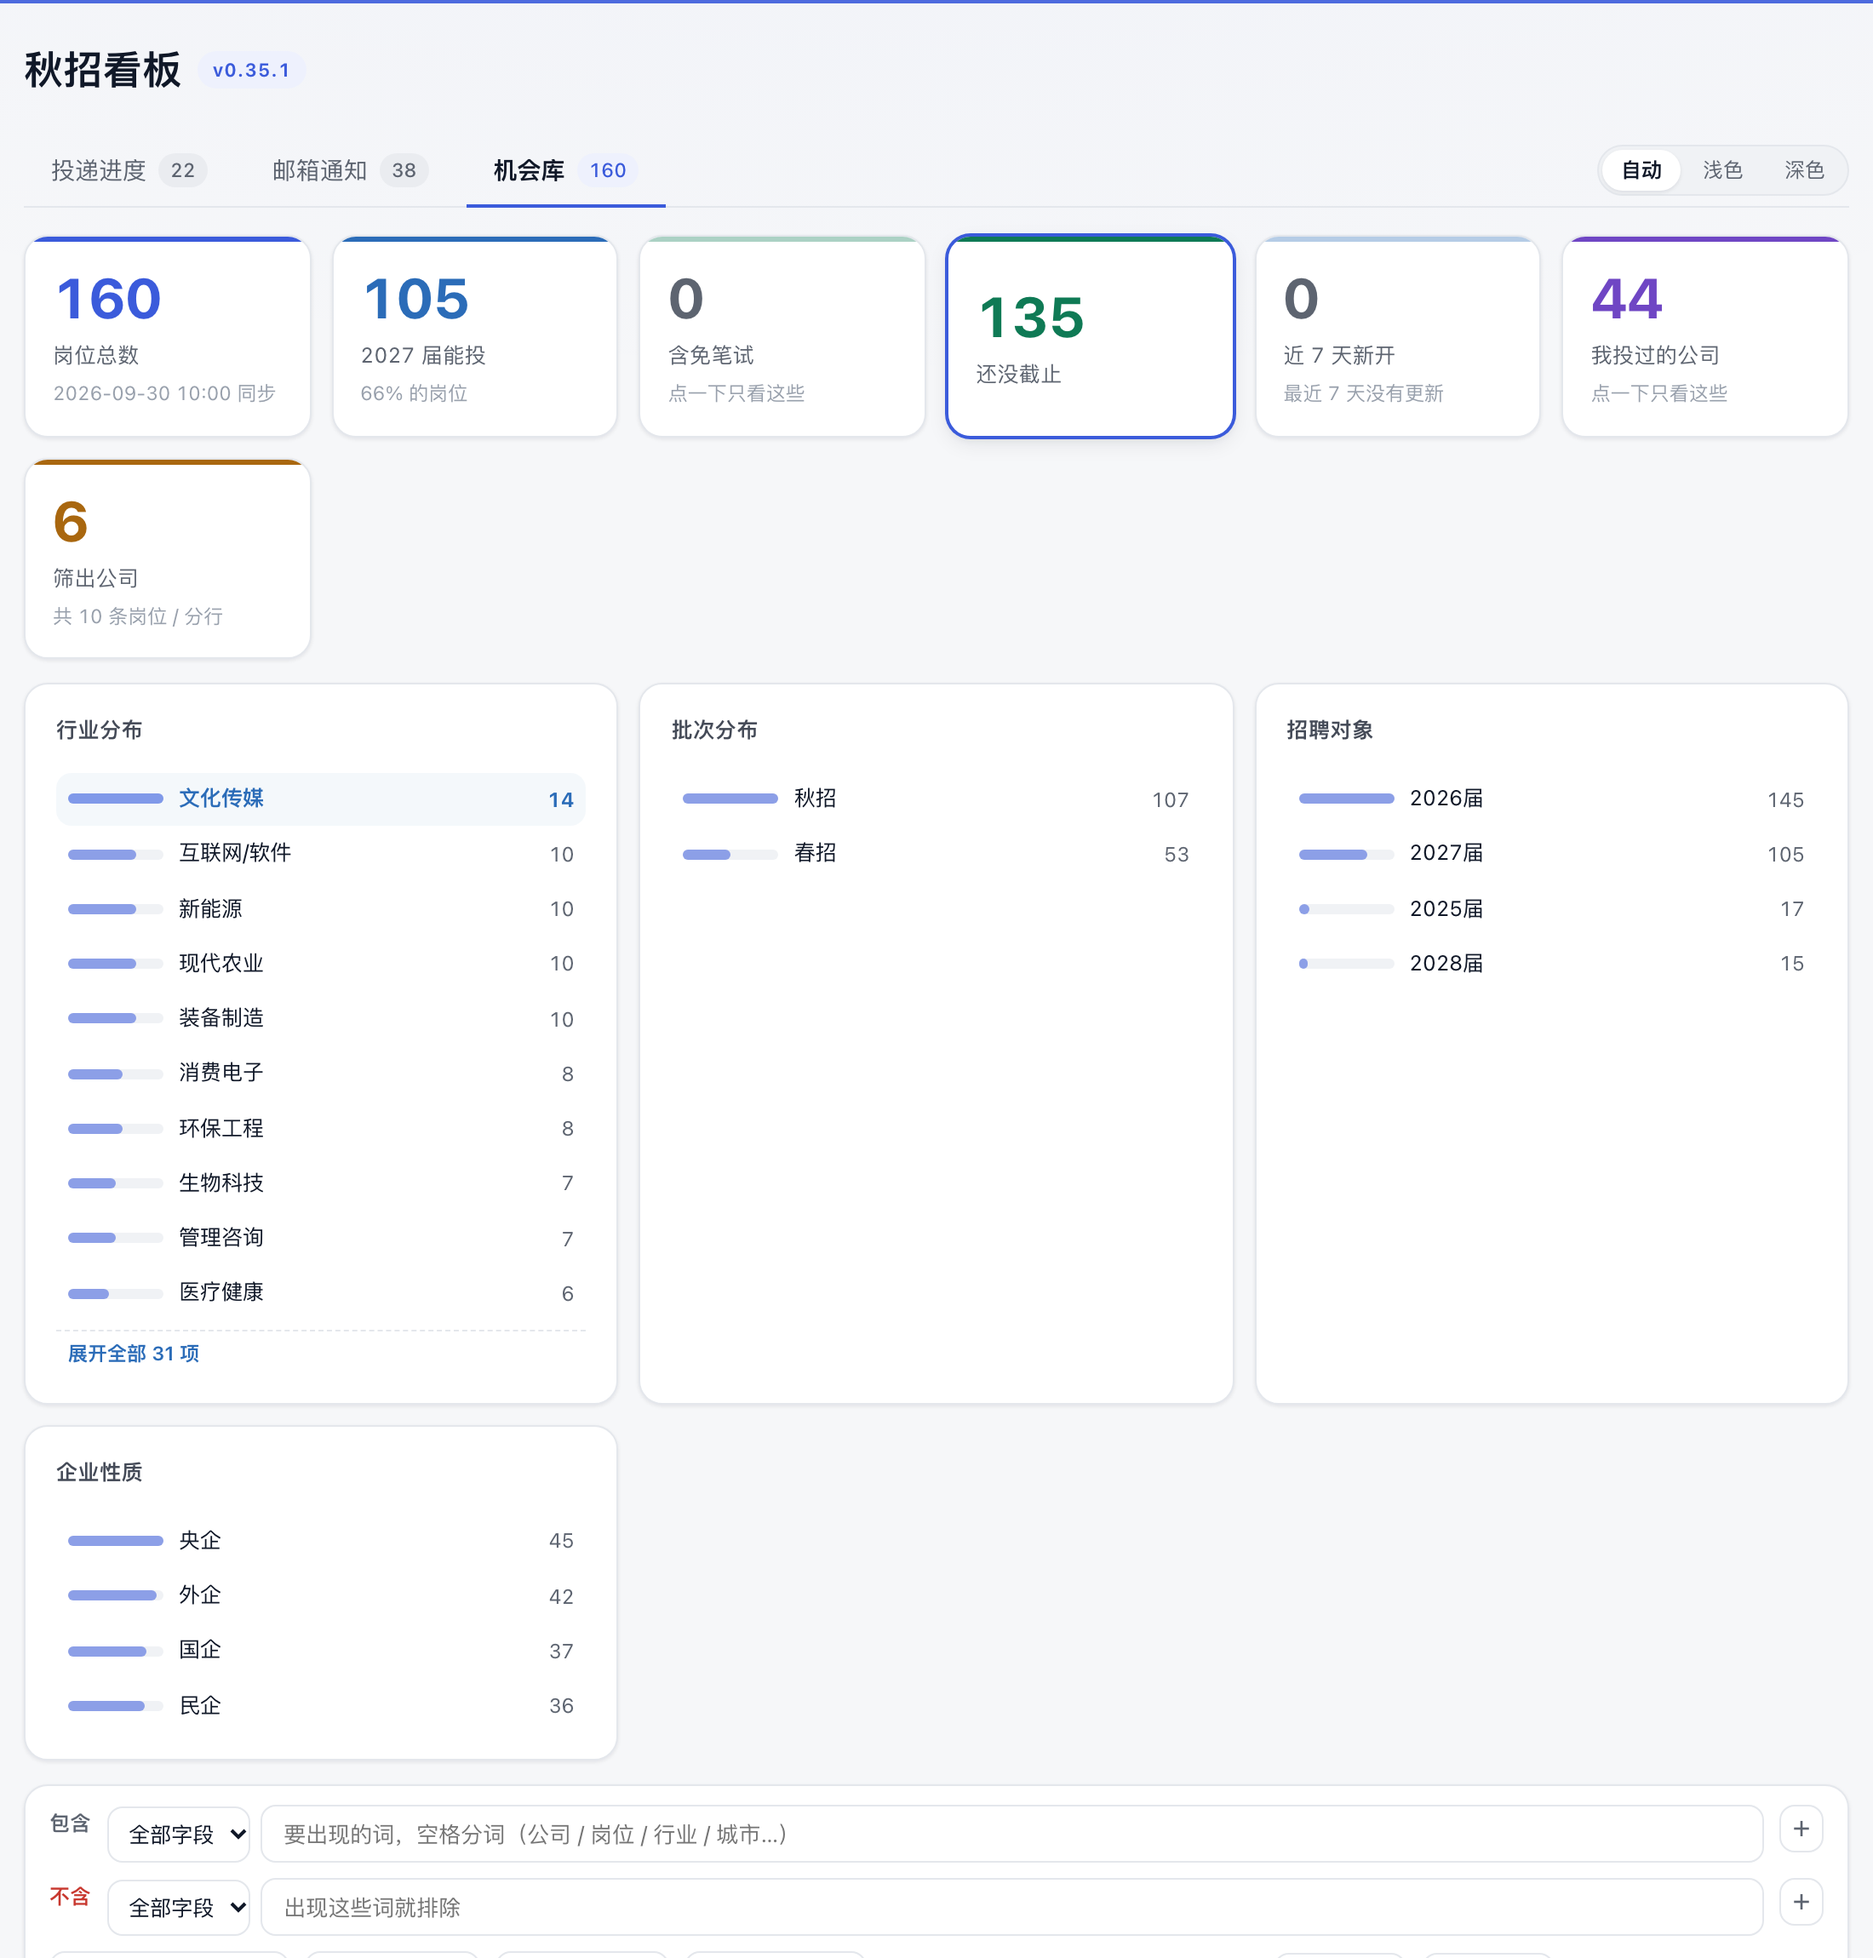
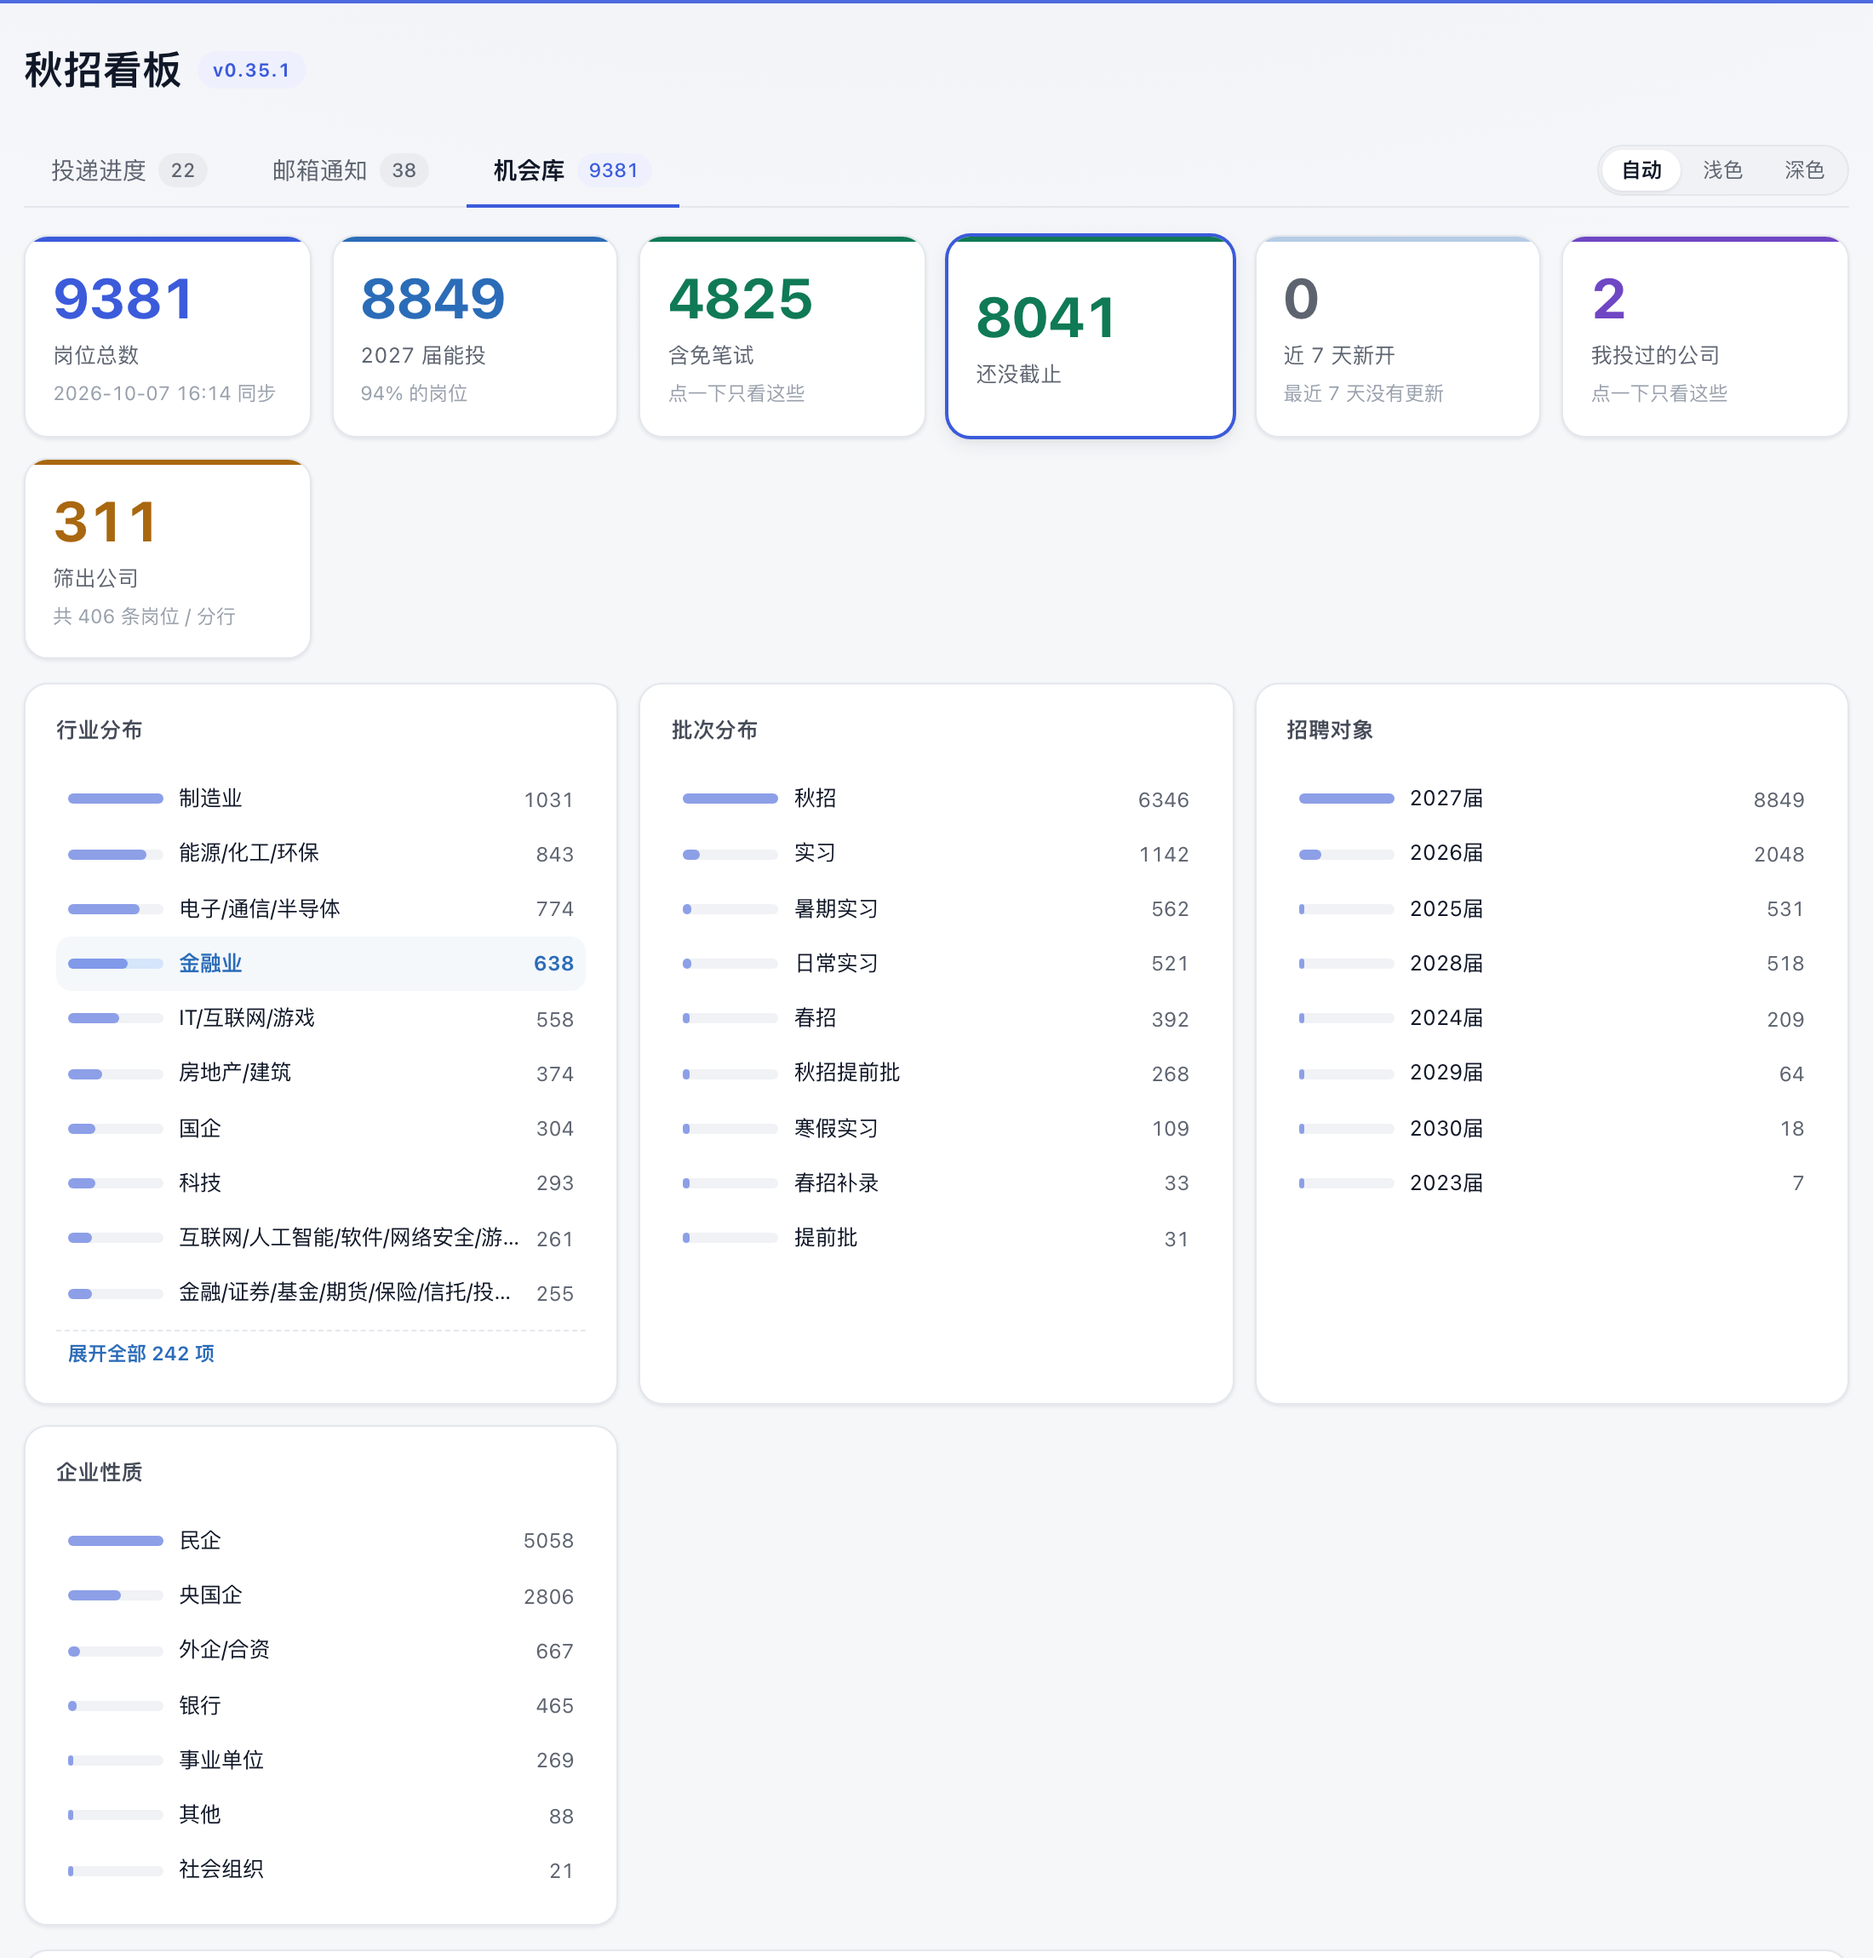
机会库那张示意图改用随包真实的 9381 条（原来拿 60 条演示数据拍，看着像空的）
README 里这张图要证的就是「装完打开就有九千多条岗位」，拿演示数据拍出来，
读者会以为这个功能是空的。现在改成对着随包公开快照（snapshot/opportunities.json）拍。

- 拍法：演示目录里**只把** data/opportunities.json 换成随包快照，
  投递记录 / 邮箱通知照旧用演示数据 —— 脱敏校验管的就是这两页，判据没放松。
- tools/make-screenshots.js 加 ONLY=<子串>：只重出指定的那一张，
  改了一张图不用把 15 张全重拍、也不会让别的图跟着变。
- ADR-003 同步修正：samples/ 那句「全是虚构演示数据」**不再逐文件成立**，
  改成更准的那条 —— **投递记录页与邮箱通知页上的公司名必须全部来自演示名单**
  （出图脚本强制校验，不在名单里就中止、不写文件）。这才是真正会泄漏的东西。
  图里只有岗位总数与行业 / 批次 / 企业性质这些统计口径，不出现任何公司名。

diff --git a/tools/make-screenshots.js b/tools/make-screenshots.js
@@ -9,6 +9,9 @@
 // 依赖 puppeteer-core（不下载浏览器，只连现成的）：
 //   npm i puppeteer-core  或  PUPPETEER_DIR=/path/to/node_modules node tools/make-screenshots.js
 //
+// 只想重出其中一张（改了一张图不想把 15 张全重拍、也不想让别的图跟着变）：
+//   ONLY=shot-opps node tools/make-screenshots.js
+//
 // 注意：截图里会出现数据。**给开源仓库用的图必须拿演示数据拍**
 // （tools/make-demo-data.py 生成），别对着真实数据按快门。
 
@@ -18,6 +21,8 @@ const path = require('path');
 const BASE = process.env.BASE || 'http://127.0.0.1:8788';
 const SAMPLES = process.env.SAMPLES || path.join(__dirname, '..', 'samples');
 const W = 1100;
+// ONLY=子串 → 只拍文件名里含这个子串的那几张（见上面用法）。空 = 全拍。
+const ONLY = (process.env.ONLY || '').trim();
 
 const puppeteer = (() => {
   const dirs = [
@@ -195,6 +200,7 @@ async function assertDemoData(browser) {
   const report = [];
 
   for (const s of SHOTS) {
+    if (ONLY && !s.file.includes(ONLY)) continue;
     const { page, errs } = await newPage(browser, s);
     await gotoBoard(page, s.hash);
     // 深色那张：把「深色」这一档显式写进浏览器再刷一次，而不是只靠系统偏好模拟 ——
@@ -289,7 +295,7 @@ async function assertDemoData(browser) {
   }
 
   // ---- 「同步飞书进度」按钮 + 结果提示 ----
-  {
+  if (!ONLY || SYNC_FILE.includes(ONLY)) {
     const { page, errs } = await newPage(browser, { h: 760 });
     await page.evaluateOnNewDocument(FAKE_SYNC);
     await gotoBoard(page, '#apps');

diff --git a/docs/decisions/ADR-003-发行包构建与私有数据防泄漏.md b/docs/decisions/ADR-003-发行包构建与私有数据防泄漏.md
@@ -36,7 +36,15 @@ Accepted（2026-10-07）
 > 扫描脚本读当前工作树的真实 secret 做词表，是为了让**校验本身不需要持有任何秘密**——脚本进包也无害。
 
 ### 随包分发的数据（这是「允许进包」的白名单，与 `data/` 严格区分）
-- `samples/`：**全是虚构演示数据**（`投递记录样例.csv`、`看板样例.html`、截图），由 `tools/make-demo-data.py` 固定种子生成，作者已核实无真实企业名。**允许进包**。
+- `samples/`：**投递记录与邮箱通知全是虚构演示数据**（`投递记录样例.csv`、`看板样例.html`、截图），由 `tools/make-demo-data.py` 固定种子生成，作者已核实无真实企业名。**允许进包**。
+  - **2026-10-13 修正**：`samples/shot-opps.png`（README 里机会库那张图）改用**随包公开快照**（`snapshot/opportunities.json`）的真实规模拍摄 ——
+    那张图要证的就是「首次启动即自带九千多条岗位」，拿 60 条虚构数据拍出来会让人以为这个功能是空的。
+    该快照本身就是下面这条「允许随包分发的公开数据」，与使用者私有 `data/` 无关；图上只显示岗位总数与行业 / 批次 /
+    企业性质等统计口径，**不出现任何公司名**。
+  - 因此「`samples/` 全是虚构数据」这句**不再逐文件成立**，取而代之的判据是：
+    **投递记录页与邮箱通知页上的公司名必须全部来自演示名单** —— `tools/make-screenshots.js` 出图前强制校验
+    （`DEMO_DIR` 指向演示目录、读它的 CSV 当名单），只要有一家不在名单里就中止、一个文件都不写。
+    这条判据覆盖了真正会泄漏的东西（作者的投递记录、邮箱通知），比原先那句更准。
 - `data/opportunities.json`（约 6.5 MB，公开的招聘汇总信息）：按 PRD 4.1，作为**本地快照**随包带。
   但它当前在 `data/` 下且被 `.gitignore` 忽略 → **不能靠 `git archive` 带出**。
   做法：改为把这份快照放在被跟踪的 `snapshot/opportunities.json`（新目录，明确「非私有」），
